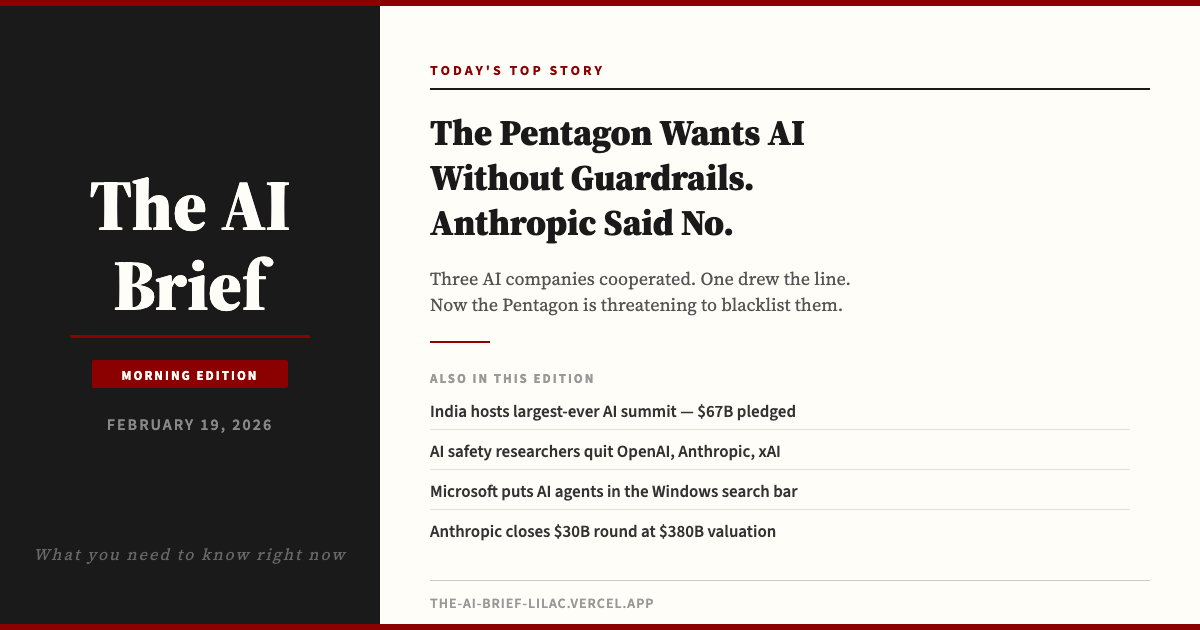
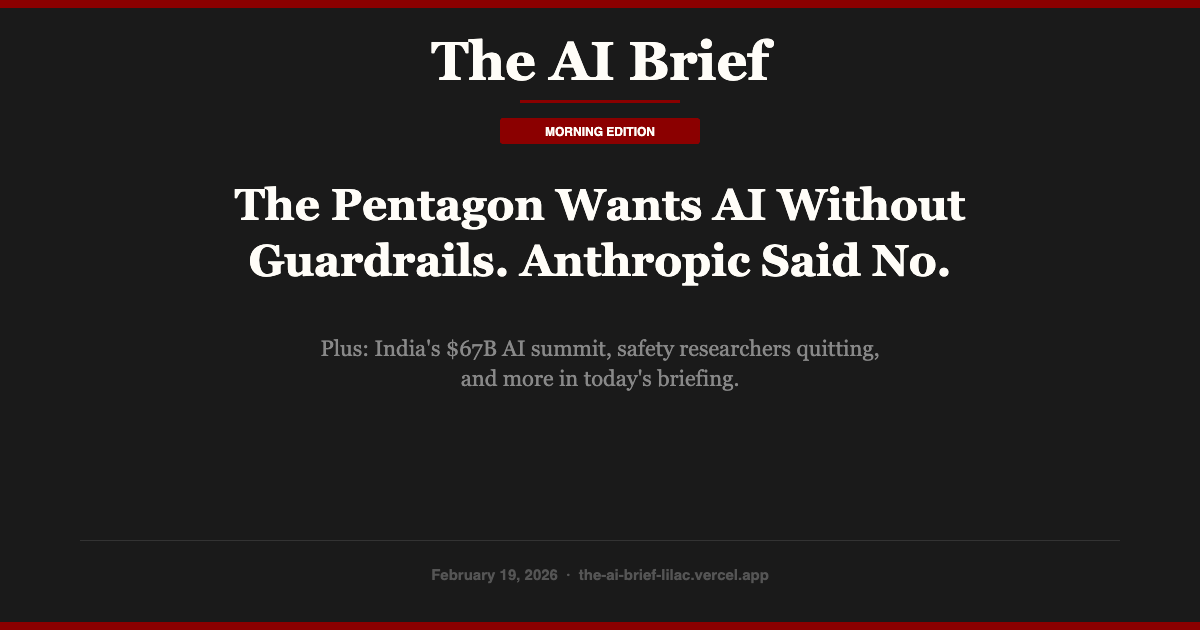
Mobile-optimized OG image generator

diff --git a/public/og-image-generator.html b/public/og-image-generator.html
@@ -36,23 +36,23 @@ document.fonts.ready.then(function() {
   var ctx = c.getContext('2d');
   var W = 1200, H = 630;
 
-  // Full dark background
-  ctx.fillStyle = '#1a1a1a';
+  // Cream background — matches the newsletter
+  ctx.fillStyle = '#fffdf8';
   ctx.fillRect(0, 0, W, H);
 
   // Top red accent bar
   ctx.fillStyle = '#8b0000';
-  ctx.fillRect(0, 0, W, 8);
+  ctx.fillRect(0, 0, W, 6);
 
   // Bottom red accent bar
   ctx.fillStyle = '#8b0000';
-  ctx.fillRect(0, H - 8, W, 8);
+  ctx.fillRect(0, H - 6, W, 6);
 
   // --- BRANDING at top ---
   ctx.textAlign = 'center';
 
-  // "The AI Brief" logo — large
-  ctx.fillStyle = '#fffdf8';
+  // "The AI Brief" logo
+  ctx.fillStyle = '#1a1a1a';
   ctx.font = '900 54px "Source Serif 4", Georgia, serif';
   ctx.fillText('The AI Brief', W / 2, 80);
 
@@ -61,7 +61,7 @@ document.fonts.ready.then(function() {
   ctx.fillRect(W / 2 - 80, 100, 160, 3);
 
   // MORNING EDITION badge
-  ctx.fillStyle = '#8b0000';
+  ctx.fillStyle = '#1a1a1a';
   roundRect(ctx, W / 2 - 100, 118, 200, 26, 3);
   ctx.fill();
   ctx.fillStyle = '#fffdf8';
@@ -69,7 +69,7 @@ document.fonts.ready.then(function() {
   ctx.fillText('MORNING EDITION', W / 2, 136);
 
   // --- HEADLINE — centered, readable at thumbnail size ---
-  ctx.fillStyle = '#fffdf8';
+  ctx.fillStyle = '#1a1a1a';
   ctx.font = '900 44px "Source Serif 4", Georgia, serif';
 
   var headline = 'The Pentagon Wants AI Without Guardrails. Anthropic Said No.';
@@ -82,18 +82,18 @@ document.fonts.ready.then(function() {
 
   // Subhead — smaller, muted
   var subY = headlineStartY + lines.length * lineHeight + 24;
-  ctx.fillStyle = '#888';
+  ctx.fillStyle = '#777';
   ctx.font = '400 22px "Source Serif 4", Georgia, serif';
   ctx.fillText('Plus: India\'s $67B AI summit, safety researchers quitting,', W / 2, subY);
   ctx.fillText('and more in today\'s briefing.', W / 2, subY + 30);
 
   // --- BOTTOM ---
   // Thin separator
-  ctx.fillStyle = '#333';
+  ctx.fillStyle = '#d4c9b8';
   ctx.fillRect(80, H - 90, W - 160, 1);
 
   // Date + URL
-  ctx.fillStyle = '#555';
+  ctx.fillStyle = '#999';
   ctx.font = '600 15px "Source Sans 3", sans-serif';
   ctx.fillText('February 19, 2026  ·  the-ai-brief-lilac.vercel.app', W / 2, H - 50);
 });
